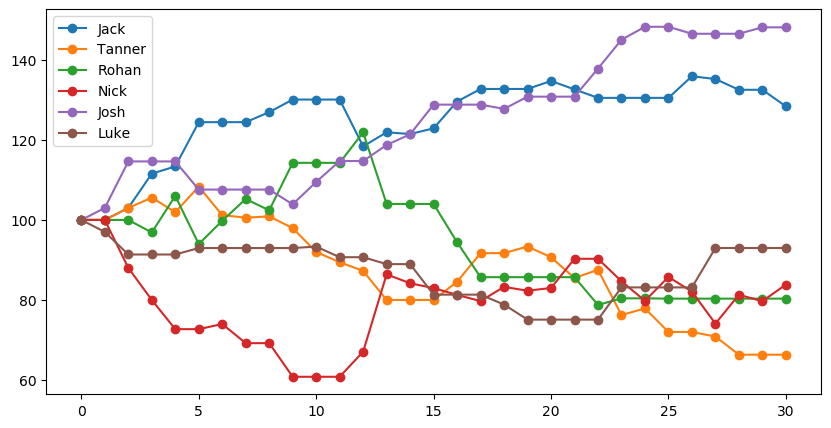
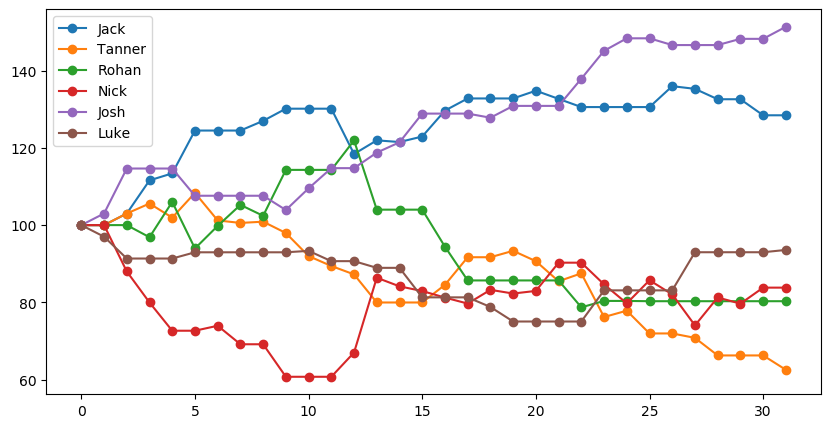
apr 23 update

diff --git a/index.html b/index.html
@@ -42,9 +42,9 @@
   <tr class="w3-white">
     <td>1</td>
     <td>Josh</td>
-    <td>148.2</td>
-    <td>34-8-2</td>
-    <td>0.795</td>
+    <td>151.4</td>
+    <td>36-8-2</td>
+    <td>0.804</td>
   </tr>
 
   <tr class="w3-white">
@@ -58,9 +58,9 @@
   <tr class="w3-white">
     <td>3</td>
     <td>Luke</td>
-    <td>93.0</td>
-    <td>12-20-1</td>
-    <td>0.379</td>
+    <td>93.6</td>
+    <td>13-21-1</td>
+    <td>0.386</td>
   </tr>
 
   <tr class="w3-white">
@@ -82,9 +82,9 @@
   <tr class="w3-white">
     <td>6</td>
     <td>Tanner</td>
-    <td>66.2</td>
-    <td>22-38-5</td>
-    <td>0.377</td>
+    <td>62.5</td>
+    <td>22-40-5</td>
+    <td>0.366</td>
   </tr>
 
 
@@ -109,6 +109,43 @@
   <h2>Recent Rounds<h2>
 </div>
 
+<div class="w3-container">
+<h4>Murdock Park &nbsp (4/22/2021)</h4>
+<table class="w3-table w3-striped w3-bordered">
+<tbody>
+
+<tr class="w3-theme">
+  <th><strong>Player</strong></th>
+  <th><strong>Score</strong></th>
+  <th><strong>Rating Change</strong></th>
+</tr>
+
+
+  <tr class="w3-white">
+    <td>Josh</td>
+    <td>6</td>
+    <td>+3.1</td>
+  </tr>
+
+  <tr class="w3-white">
+    <td>Luke</td>
+    <td>9</td>
+    <td>+0.6</td>
+  </tr>
+
+  <tr class="w3-white">
+    <td>Tanner</td>
+    <td>16</td>
+    <td>-3.7</td>
+  </tr>
+
+
+</tbody>
+</table>
+<p></p>
+</div>
+
+<!-- Recent 2 -->
 <div class="w3-container">
 <h4>Washout Woods &nbsp (4/14/2021)</h4>
 <table class="w3-table w3-striped w3-bordered">
@@ -139,7 +176,7 @@
 <p></p>
 </div>
 
-<!-- Recent 2 -->
+<!-- Recent 3 -->
 <div class="w3-container">
 <h4>Washout Woods &nbsp (4/13/2021)</h4>
 <table class="w3-table w3-striped w3-bordered">
@@ -170,43 +207,6 @@
 <p></p>
 </div>
 
-<!-- Recent 3 -->
-<div class="w3-container">
-<h4>Murdock Park &nbsp (4/12/2021)</h4>
-<table class="w3-table w3-striped w3-bordered">
-<tbody>
-
-<tr class="w3-theme">
-  <th><strong>Player</strong></th>
-  <th><strong>Score</strong></th>
-  <th><strong>Rating Change</strong></th>
-</tr>
-
-
-  <tr class="w3-white">
-    <td>Nick</td>
-    <td>0</td>
-    <td>+7.2</td>
-  </tr>
-
-  <tr class="w3-white">
-    <td>Jack</td>
-    <td>3</td>
-    <td>-2.7</td>
-  </tr>
-
-  <tr class="w3-white">
-    <td>Tanner</td>
-    <td>12</td>
-    <td>-4.6</td>
-  </tr>
-
-
-</tbody>
-</table>
-<p></p>
-</div>
-
 
 <!-- RATINGS OVER TIME GRAPH -->
 <div class="w3-container">
@@ -225,7 +225,7 @@
 </div>
 
 <div class="w3-container">
-  <p>Last Update: 04-14-2021</p>
+  <p>Last Update: 04-23-2021</p>
   <p>View All Data:
     <a href="info/all-data.html">Logged Rounds</a>
   </p>

diff --git a/info/all-data.html b/info/all-data.html
@@ -464,6 +464,20 @@
     <td></td>
   </tr>
 
+  <tr class="w3-white">
+    <td>31</td>
+    <td>2021-04-22</td>
+    <td>Murdock Park</td>
+    <td>50</td>
+    <td>Medium</td>
+    <td></td>
+    <td>16</td>
+    <td></td>
+    <td></td>
+    <td>6</td>
+    <td>9</td>
+  </tr>
+
 
 </tbody>
 </table>
